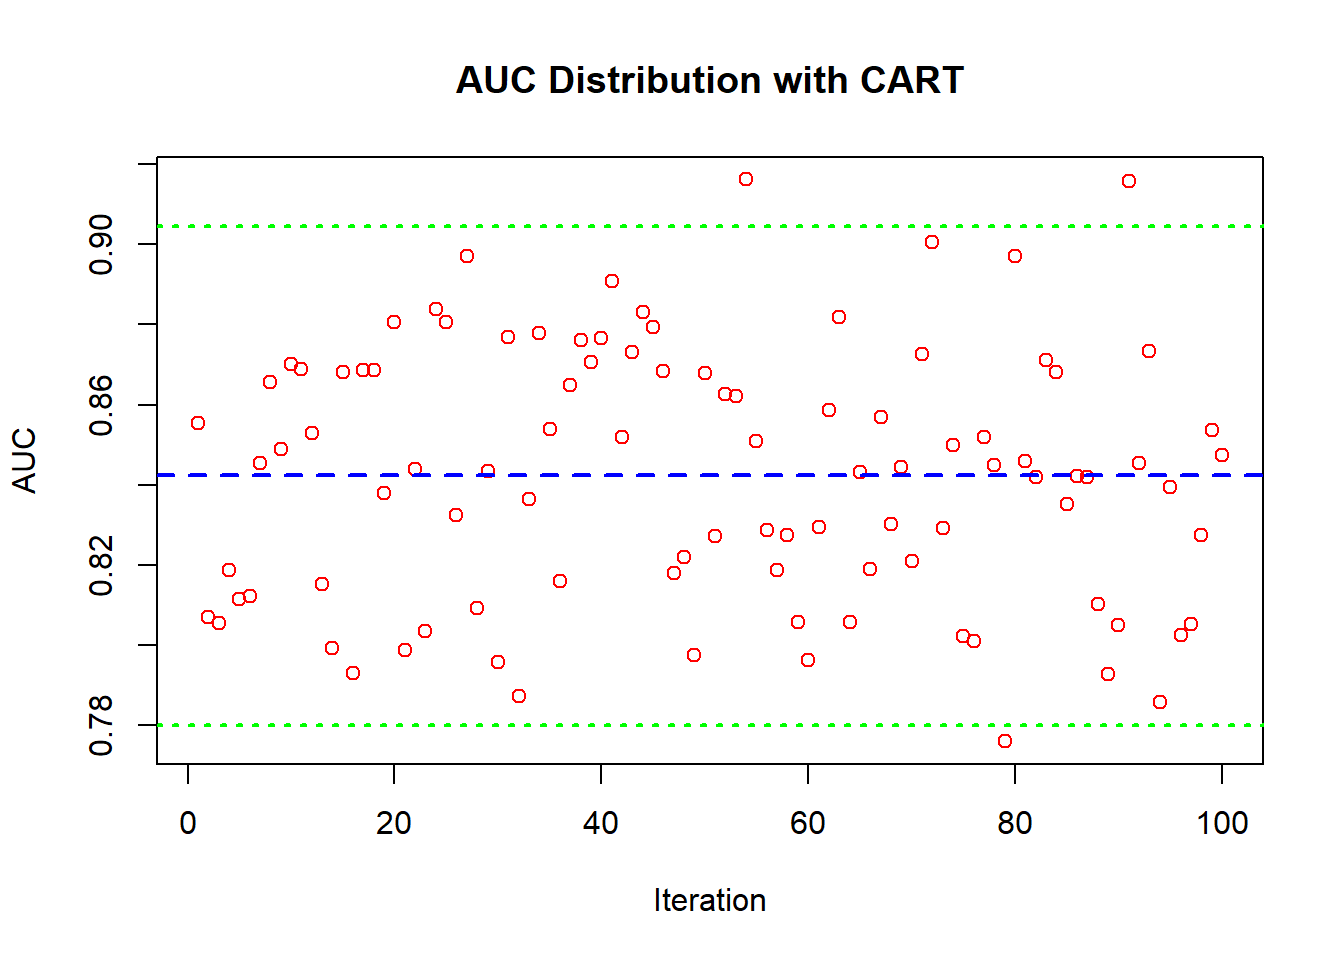
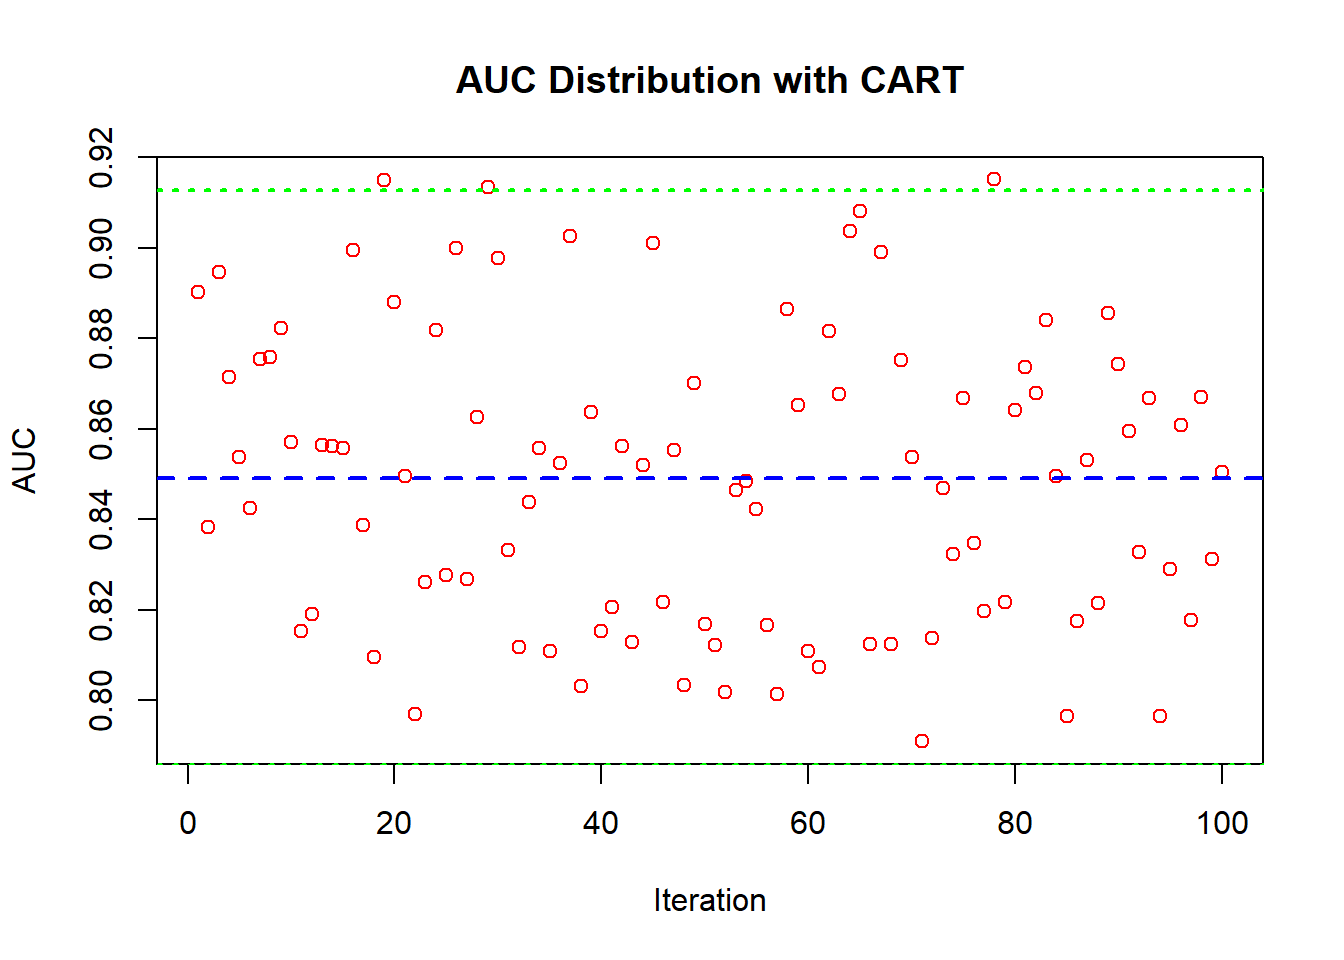
reg rmspe fix

diff --git a/docs/binary-application.html b/docs/binary-application.html
@@ -23,7 +23,7 @@
 <meta name="author" content="Simon P. Raymond" />
 
 
-<meta name="date" content="2024-03-03" />
+<meta name="date" content="2024-03-08" />
 
   <meta name="viewport" content="width=device-width, initial-scale=1" />
   <meta name="apple-mobile-web-app-capable" content="yes" />
@@ -736,11 +736,11 @@ code span.wa { color: #60a0b0; font-weight: bold; font-style: italic; } /* Warni
 ## 6  0.03         4                1         1                1      1     0     1
 ##   nrounds AUC_Mean
 ##     &lt;dbl&gt;    &lt;dbl&gt;
-## 1     350    0.928
-## 2     350    0.927
+## 1     350    0.926
+## 2     350    0.928
 ## 3     400    0.928
-## 4     400    0.927
-## 5     450    0.927
+## 4     400    0.924
+## 5     450    0.925
 ## 6     350    0.924</code></pre>
 <p>We will take the top 10% and do a more thorough search</p>
 <div class="sourceCode" id="cb55"><pre class="sourceCode r"><code class="sourceCode r"><span id="cb55-1"><a href="binary-application.html#cb55-1" tabindex="-1"></a><span class="co"># Sort vr by AUC_Mean and select the top 25%</span></span>
@@ -755,15 +755,15 @@ code span.wa { color: #60a0b0; font-weight: bold; font-style: italic; } /* Warni
 <pre><code>## # A tibble: 4 × 11
 ##     eta max_depth min_child_weight subsample colsample_bytree lambda alpha gamma
 ##   &lt;dbl&gt;     &lt;dbl&gt;            &lt;dbl&gt;     &lt;dbl&gt;            &lt;dbl&gt;  &lt;dbl&gt; &lt;dbl&gt; &lt;dbl&gt;
-## 1  0.05         6                1         1                1      1     1     0
-## 2  0.05         4                1         1                1      1     0     1
-## 3  0.05         4                1         1                1      1     1     1
-## 4  0.03         6                1         1                1      1     1     0
+## 1  0.05         6                1         1                1      2     1     0
+## 2  0.03         6                1         1                1      3     0     0
+## 3  0.05         4                1         1                1      2     0     0
+## 4  0.05         6                1         1                1      2     1     0
 ##   nrounds AUC_Mean mean_auc
 ##     &lt;dbl&gt;    &lt;dbl&gt;    &lt;dbl&gt;
-## 1     350    0.929    0.928
-## 2     400    0.929    0.928
-## 3     450    0.929    0.928
+## 1     350    0.929    0.927
+## 2     450    0.929    0.928
+## 3     450    0.929    0.927
 ## 4     450    0.929    0.928</code></pre>
 <p>Final AUC pres</p>
 <div class="sourceCode" id="cb58"><pre class="sourceCode r"><code class="sourceCode r"><span id="cb58-1"><a href="binary-application.html#cb58-1" tabindex="-1"></a>best_hp <span class="ot">&lt;-</span> ts_res <span class="sc">%&gt;%</span></span>
@@ -774,7 +774,7 @@ code span.wa { color: #60a0b0; font-weight: bold; font-style: italic; } /* Warni
 <pre><code>## # A tibble: 1 × 11
 ##     eta max_depth min_child_weight subsample colsample_bytree lambda alpha gamma
 ##   &lt;dbl&gt;     &lt;dbl&gt;            &lt;dbl&gt;     &lt;dbl&gt;            &lt;dbl&gt;  &lt;dbl&gt; &lt;dbl&gt; &lt;dbl&gt;
-## 1  0.03         6                1         1                1      1     1     0
+## 1  0.03         6                1         1                1      3     0     0
 ##   nrounds AUC_Mean mean_auc
 ##     &lt;dbl&gt;    &lt;dbl&gt;    &lt;dbl&gt;
 ## 1     450    0.929    0.928</code></pre>
@@ -783,9 +783,9 @@ code span.wa { color: #60a0b0; font-weight: bold; font-style: italic; } /* Warni
 <span id="cb60-3"><a href="binary-application.html#cb60-3" tabindex="-1"></a></span>
 <span id="cb60-4"><a href="binary-application.html#cb60-4" tabindex="-1"></a>mauc <span class="ot">&lt;-</span> <span class="fu">mean</span>(auc)</span>
 <span id="cb60-5"><a href="binary-application.html#cb60-5" tabindex="-1"></a>mauc</span></code></pre></div>
-<pre><code>## [1] 0.9278773</code></pre>
+<pre><code>## [1] 0.9278231</code></pre>
 <div class="sourceCode" id="cb62"><pre class="sourceCode r"><code class="sourceCode r"><span id="cb62-1"><a href="binary-application.html#cb62-1" tabindex="-1"></a><span class="fu">sd</span>(auc)</span></code></pre></div>
-<pre><code>## [1] 0.002035144</code></pre>
+<pre><code>## [1] 0.002040468</code></pre>
 <div class="sourceCode" id="cb64"><pre class="sourceCode r"><code class="sourceCode r"><span id="cb64-1"><a href="binary-application.html#cb64-1" tabindex="-1"></a><span class="fu">plot</span>(auc, <span class="at">col=</span><span class="st">&quot;red&quot;</span>)</span>
 <span id="cb64-2"><a href="binary-application.html#cb64-2" tabindex="-1"></a><span class="fu">abline</span>(<span class="at">a =</span> <span class="fu">mean</span>(auc), <span class="at">b =</span> <span class="dv">0</span>, <span class="at">col =</span> <span class="st">&quot;blue&quot;</span>, <span class="at">lwd =</span> <span class="dv">2</span>)</span>
 <span id="cb64-3"><a href="binary-application.html#cb64-3" tabindex="-1"></a><span class="fu">abline</span>(<span class="at">a =</span> <span class="fu">mean</span>(auc)<span class="sc">-</span><span class="fl">1.96</span><span class="sc">*</span><span class="fu">sd</span>(auc), <span class="at">b =</span> <span class="dv">0</span>, <span class="at">col =</span> <span class="st">&quot;green&quot;</span>, <span class="at">lwd =</span> <span class="dv">3</span>)</span>
@@ -942,7 +942,7 @@ code span.wa { color: #60a0b0; font-weight: bold; font-style: italic; } /* Warni
 <span id="cb68-53"><a href="binary-application.html#cb68-53" tabindex="-1"></a><span class="co"># Calculate and print the average of the best thresholds</span></span>
 <span id="cb68-54"><a href="binary-application.html#cb68-54" tabindex="-1"></a>avg_best_threshold <span class="ot">&lt;-</span> <span class="fu">mean</span>(best_thresholds)</span>
 <span id="cb68-55"><a href="binary-application.html#cb68-55" tabindex="-1"></a><span class="fu">cat</span>(<span class="st">&quot;Average Best Threshold:&quot;</span>, avg_best_threshold, <span class="st">&quot;</span><span class="sc">\n</span><span class="st">&quot;</span>)</span></code></pre></div>
-<pre><code>## Average Best Threshold: 0.2309387</code></pre>
+<pre><code>## Average Best Threshold: 0.2328161</code></pre>
 <div class="sourceCode" id="cb70"><pre class="sourceCode r"><code class="sourceCode r"><span id="cb70-1"><a href="binary-application.html#cb70-1" tabindex="-1"></a><span class="co"># Plot the distribution of max J statistics for each iteration</span></span>
 <span id="cb70-2"><a href="binary-application.html#cb70-2" tabindex="-1"></a><span class="fu">hist</span>(j_stats, <span class="at">col =</span> <span class="st">&quot;blue&quot;</span>, <span class="at">xlab =</span> <span class="st">&quot;Max J Statistic&quot;</span>, <span class="at">ylab =</span> <span class="st">&quot;Frequency&quot;</span>,</span>
 <span id="cb70-3"><a href="binary-application.html#cb70-3" tabindex="-1"></a>     <span class="at">main =</span> <span class="st">&quot;Distribution of Max J Statistics Across Bootstrap Iterations&quot;</span>)</span>
@@ -991,8 +991,8 @@ code span.wa { color: #60a0b0; font-weight: bold; font-style: italic; } /* Warni
 <span id="cb71-37"><a href="binary-application.html#cb71-37" tabindex="-1"></a>avg_conf_matrix <span class="ot">&lt;-</span> conf_mat_totals <span class="sc">/</span> <span class="dv">100</span></span>
 <span id="cb71-38"><a href="binary-application.html#cb71-38" tabindex="-1"></a><span class="fu">print</span>(avg_conf_matrix)</span></code></pre></div>
 <pre><code>##             Actual_1 Actual_0
-## Predicted_1  2512.99  1687.29
-## Predicted_0   366.36  7413.95</code></pre>
+## Predicted_1  2512.31  1681.81
+## Predicted_0   367.04  7419.43</code></pre>
 <p>This doesn’t have a CI but its a average</p>
 <div class="sourceCode" id="cb73"><pre class="sourceCode r"><code class="sourceCode r"><span id="cb73-1"><a href="binary-application.html#cb73-1" tabindex="-1"></a><span class="co"># Determine common FPR thresholds for interpolation (simplified approach)</span></span>
 <span id="cb73-2"><a href="binary-application.html#cb73-2" tabindex="-1"></a>common_fpr_thresholds <span class="ot">&lt;-</span> <span class="fu">seq</span>(<span class="dv">0</span>, <span class="dv">1</span>, <span class="at">length.out =</span> <span class="dv">100</span>)</span>

diff --git a/docs/speeds.html b/docs/speeds.html
@@ -23,7 +23,7 @@
 <meta name="author" content="Simon P. Raymond" />
 
 
-<meta name="date" content="2024-03-03" />
+<meta name="date" content="2024-03-08" />
 
   <meta name="viewport" content="width=device-width, initial-scale=1" />
   <meta name="apple-mobile-web-app-capable" content="yes" />
@@ -607,48 +607,48 @@ code span.wa { color: #60a0b0; font-weight: bold; font-style: italic; } /* Warni
 <p>10ks</p>
 <p>matrix</p>
 <div class="sourceCode" id="cb139"><pre class="sourceCode r"><code class="sourceCode r"><span id="cb139-1"><a href="speeds.html#cb139-1" tabindex="-1"></a>t1sf </span></code></pre></div>
-<pre><code>## [1] 29.26344</code></pre>
+<pre><code>## [1] 29.62247</code></pre>
 <div class="sourceCode" id="cb141"><pre class="sourceCode r"><code class="sourceCode r"><span id="cb141-1"><a href="speeds.html#cb141-1" tabindex="-1"></a>t2sf</span></code></pre></div>
-<pre><code>## [1] 12.43812</code></pre>
+<pre><code>## [1] 12.46344</code></pre>
 <div class="sourceCode" id="cb143"><pre class="sourceCode r"><code class="sourceCode r"><span id="cb143-1"><a href="speeds.html#cb143-1" tabindex="-1"></a>tpsf</span></code></pre></div>
-<pre><code>## [1] 7.088834</code></pre>
+<pre><code>## [1] 6.799765</code></pre>
 <p>sparse</p>
 <div class="sourceCode" id="cb145"><pre class="sourceCode r"><code class="sourceCode r"><span id="cb145-1"><a href="speeds.html#cb145-1" tabindex="-1"></a>t1ssf </span></code></pre></div>
-<pre><code>## [1] 21.97449</code></pre>
+<pre><code>## [1] 21.49347</code></pre>
 <div class="sourceCode" id="cb147"><pre class="sourceCode r"><code class="sourceCode r"><span id="cb147-1"><a href="speeds.html#cb147-1" tabindex="-1"></a>t2ssf</span></code></pre></div>
-<pre><code>## [1] 11.96164</code></pre>
+<pre><code>## [1] 11.82725</code></pre>
 <div class="sourceCode" id="cb149"><pre class="sourceCode r"><code class="sourceCode r"><span id="cb149-1"><a href="speeds.html#cb149-1" tabindex="-1"></a>tpssf</span></code></pre></div>
-<pre><code>## [1] 5.678013</code></pre>
+<pre><code>## [1] 5.638014</code></pre>
 <p>100ks</p>
 <p>matrix</p>
 <div class="sourceCode" id="cb151"><pre class="sourceCode r"><code class="sourceCode r"><span id="cb151-1"><a href="speeds.html#cb151-1" tabindex="-1"></a>t1100 </span></code></pre></div>
-<pre><code>## [1] 290.168</code></pre>
+<pre><code>## [1] 290.1228</code></pre>
 <div class="sourceCode" id="cb153"><pre class="sourceCode r"><code class="sourceCode r"><span id="cb153-1"><a href="speeds.html#cb153-1" tabindex="-1"></a>t2100 </span></code></pre></div>
-<pre><code>## [1] 50.99562</code></pre>
+<pre><code>## [1] 50.77585</code></pre>
 <div class="sourceCode" id="cb155"><pre class="sourceCode r"><code class="sourceCode r"><span id="cb155-1"><a href="speeds.html#cb155-1" tabindex="-1"></a>tp100</span></code></pre></div>
-<pre><code>## [1] 44.22272</code></pre>
+<pre><code>## [1] 43.77781</code></pre>
 <p>sparse</p>
 <div class="sourceCode" id="cb157"><pre class="sourceCode r"><code class="sourceCode r"><span id="cb157-1"><a href="speeds.html#cb157-1" tabindex="-1"></a>t1s100 </span></code></pre></div>
-<pre><code>## [1] 206.0387</code></pre>
+<pre><code>## [1] 208.2067</code></pre>
 <div class="sourceCode" id="cb159"><pre class="sourceCode r"><code class="sourceCode r"><span id="cb159-1"><a href="speeds.html#cb159-1" tabindex="-1"></a>t2s100 </span></code></pre></div>
-<pre><code>## [1] 45.44652</code></pre>
+<pre><code>## [1] 45.53019</code></pre>
 <div class="sourceCode" id="cb161"><pre class="sourceCode r"><code class="sourceCode r"><span id="cb161-1"><a href="speeds.html#cb161-1" tabindex="-1"></a>tps100</span></code></pre></div>
-<pre><code>## [1] 32.47467</code></pre>
+<pre><code>## [1] 32.36612</code></pre>
 <p>500ks</p>
 <p>matrix</p>
 <div class="sourceCode" id="cb163"><pre class="sourceCode r"><code class="sourceCode r"><span id="cb163-1"><a href="speeds.html#cb163-1" tabindex="-1"></a>t150 </span></code></pre></div>
-<pre><code>## [1] 1564.963</code></pre>
+<pre><code>## [1] 1573.649</code></pre>
 <div class="sourceCode" id="cb165"><pre class="sourceCode r"><code class="sourceCode r"><span id="cb165-1"><a href="speeds.html#cb165-1" tabindex="-1"></a>t250 </span></code></pre></div>
-<pre><code>## [1] 226.6483</code></pre>
+<pre><code>## [1] 227.4724</code></pre>
 <div class="sourceCode" id="cb167"><pre class="sourceCode r"><code class="sourceCode r"><span id="cb167-1"><a href="speeds.html#cb167-1" tabindex="-1"></a>tp50</span></code></pre></div>
-<pre><code>## [1] 473.1323</code></pre>
+<pre><code>## [1] 460.5864</code></pre>
 <p>sparse</p>
 <div class="sourceCode" id="cb169"><pre class="sourceCode r"><code class="sourceCode r"><span id="cb169-1"><a href="speeds.html#cb169-1" tabindex="-1"></a>t1s50 </span></code></pre></div>
-<pre><code>## [1] 1141.432</code></pre>
+<pre><code>## [1] 1149.098</code></pre>
 <div class="sourceCode" id="cb171"><pre class="sourceCode r"><code class="sourceCode r"><span id="cb171-1"><a href="speeds.html#cb171-1" tabindex="-1"></a>t2s50 </span></code></pre></div>
-<pre><code>## [1] 203.0088</code></pre>
+<pre><code>## [1] 202.9333</code></pre>
 <div class="sourceCode" id="cb173"><pre class="sourceCode r"><code class="sourceCode r"><span id="cb173-1"><a href="speeds.html#cb173-1" tabindex="-1"></a>tps50 </span></code></pre></div>
-<pre><code>## [1] 362.6251</code></pre>
+<pre><code>## [1] 361.2397</code></pre>
 </div>
 <div id="analysis" class="section level2 hasAnchor" number="6.6">
 <h2><span class="header-section-number">6.6</span> Analysis<a href="speeds.html#analysis" class="anchor-section" aria-label="Anchor link to header"></a></h2>

diff --git a/docs/regressional-application.html b/docs/regressional-application.html
@@ -23,7 +23,7 @@
 <meta name="author" content="Simon P. Raymond" />
 
 
-<meta name="date" content="2024-03-03" />
+<meta name="date" content="2024-03-08" />
 
   <meta name="viewport" content="width=device-width, initial-scale=1" />
   <meta name="apple-mobile-web-app-capable" content="yes" />
@@ -362,12 +362,12 @@ medv: Median value of owner-occupied homes in $1000s.</p>
 <span id="cb82-16"><a href="regressional-application.html#cb82-16" tabindex="-1"></a>  yhat <span class="ot">&lt;-</span> <span class="fu">predict</span>(mdl, tst)</span>
 <span id="cb82-17"><a href="regressional-application.html#cb82-17" tabindex="-1"></a>  </span>
 <span id="cb82-18"><a href="regressional-application.html#cb82-18" tabindex="-1"></a>  <span class="co"># Calculate RMSPE</span></span>
-<span id="cb82-19"><a href="regressional-application.html#cb82-19" tabindex="-1"></a>  rmspe[i] <span class="ot">&lt;-</span> <span class="fu">sqrt</span>(<span class="fu">mean</span>(((tst<span class="sc">$</span>y <span class="sc">-</span> yhat) <span class="sc">/</span> tst<span class="sc">$</span>y)<span class="sc">^</span><span class="dv">2</span>, <span class="at">na.rm =</span> <span class="cn">TRUE</span>))</span>
+<span id="cb82-19"><a href="regressional-application.html#cb82-19" tabindex="-1"></a>  rmspe[i] <span class="ot">&lt;-</span> <span class="fu">sqrt</span>(<span class="fu">mean</span>((tst<span class="sc">$</span>y <span class="sc">-</span> yhat)<span class="sc">^</span><span class="dv">2</span>))</span>
 <span id="cb82-20"><a href="regressional-application.html#cb82-20" tabindex="-1"></a>}</span>
 <span id="cb82-21"><a href="regressional-application.html#cb82-21" tabindex="-1"></a></span>
 <span id="cb82-22"><a href="regressional-application.html#cb82-22" tabindex="-1"></a>mean_rmspe <span class="ot">&lt;-</span> <span class="fu">mean</span>(rmspe, <span class="at">na.rm =</span> <span class="cn">TRUE</span>)</span>
 <span id="cb82-23"><a href="regressional-application.html#cb82-23" tabindex="-1"></a>mean_rmspe</span></code></pre></div>
-<pre><code>## [1] 0.1739991</code></pre>
+<pre><code>## [1] 3.473048</code></pre>
 </div>
 <div id="lm-1" class="section level3 hasAnchor" number="4.2.2">
 <h3><span class="header-section-number">4.2.2</span> LM<a href="regressional-application.html#lm-1" class="anchor-section" aria-label="Anchor link to header"></a></h3>
@@ -388,12 +388,12 @@ medv: Median value of owner-occupied homes in $1000s.</p>
 <span id="cb84-15"><a href="regressional-application.html#cb84-15" tabindex="-1"></a>  </span>
 <span id="cb84-16"><a href="regressional-application.html#cb84-16" tabindex="-1"></a>  </span>
 <span id="cb84-17"><a href="regressional-application.html#cb84-17" tabindex="-1"></a>  <span class="co"># Calculate RMSPE</span></span>
-<span id="cb84-18"><a href="regressional-application.html#cb84-18" tabindex="-1"></a>  rmspe[i] <span class="ot">&lt;-</span> <span class="fu">sqrt</span>(<span class="fu">mean</span>(((tst<span class="sc">$</span>y <span class="sc">-</span> yhat) <span class="sc">/</span> tst<span class="sc">$</span>y)<span class="sc">^</span><span class="dv">2</span>, <span class="at">na.rm =</span> <span class="cn">TRUE</span>))</span>
+<span id="cb84-18"><a href="regressional-application.html#cb84-18" tabindex="-1"></a>  rmspe[i] <span class="ot">&lt;-</span> <span class="fu">sqrt</span>(<span class="fu">mean</span>((tst<span class="sc">$</span>y <span class="sc">-</span> yhat)<span class="sc">^</span><span class="dv">2</span>))</span>
 <span id="cb84-19"><a href="regressional-application.html#cb84-19" tabindex="-1"></a>}</span>
 <span id="cb84-20"><a href="regressional-application.html#cb84-20" tabindex="-1"></a></span>
 <span id="cb84-21"><a href="regressional-application.html#cb84-21" tabindex="-1"></a>mean_rmspe <span class="ot">&lt;-</span> <span class="fu">mean</span>(rmspe, <span class="at">na.rm =</span> <span class="cn">TRUE</span>)</span>
 <span id="cb84-22"><a href="regressional-application.html#cb84-22" tabindex="-1"></a>mean_rmspe</span></code></pre></div>
-<pre><code>## [1] 0.260165</code></pre>
+<pre><code>## [1] 4.870797</code></pre>
 <p>We will add others later but it is the same basic idea as classification algorithms only we use rmspe instead of auc.</p>
 
 </div>

diff --git a/docs/index.html b/docs/index.html
@@ -23,7 +23,7 @@
 <meta name="author" content="Simon P. Raymond" />
 
 
-<meta name="date" content="2024-03-03" />
+<meta name="date" content="2024-03-08" />
 
   <meta name="viewport" content="width=device-width, initial-scale=1" />
   <meta name="apple-mobile-web-app-capable" content="yes" />
@@ -269,7 +269,7 @@ code span.wa { color: #60a0b0; font-weight: bold; font-style: italic; } /* Warni
 <div id="header">
 <h1 class="title">Machine Learning Applications</h1>
 <p class="author"><em>Simon P. Raymond</em></p>
-<p class="date"><em>2024-03-03</em></p>
+<p class="date"><em>2024-03-08</em></p>
 </div>
 <div id="about-myself" class="section level1 hasAnchor" number="1">
 <h1><span class="header-section-number">Chapter 1</span> About Myself<a href="index.html#about-myself" class="anchor-section" aria-label="Anchor link to header"></a></h1>

diff --git a/docs/algorithms.html b/docs/algorithms.html
@@ -23,7 +23,7 @@
 <meta name="author" content="Simon P. Raymond" />
 
 
-<meta name="date" content="2024-03-03" />
+<meta name="date" content="2024-03-08" />
 
   <meta name="viewport" content="width=device-width, initial-scale=1" />
   <meta name="apple-mobile-web-app-capable" content="yes" />
@@ -446,7 +446,7 @@ code span.wa { color: #60a0b0; font-weight: bold; font-style: italic; } /* Warni
 ## 
 ## Training Results
 ## 
-## Accuracy: 0.858 Kappa: 0.715</code></pre>
+## Accuracy: 0.853 Kappa: 0.705</code></pre>
 </div>
 <div id="gbm-boost" class="section level3 hasAnchor" number="2.4.2">
 <h3><span class="header-section-number">2.4.2</span> GBM boost<a href="algorithms.html#gbm-boost" class="anchor-section" aria-label="Anchor link to header"></a></h3>

diff --git a/docs/404.html b/docs/404.html
@@ -23,7 +23,7 @@
 <meta name="author" content="Simon P. Raymond" />
 
 
-<meta name="date" content="2024-03-03" />
+<meta name="date" content="2024-03-08" />
 
   <meta name="viewport" content="width=device-width, initial-scale=1" />
   <meta name="apple-mobile-web-app-capable" content="yes" />

diff --git a/docs/imbalanced-application.html b/docs/imbalanced-application.html
@@ -23,7 +23,7 @@
 <meta name="author" content="Simon P. Raymond" />
 
 
-<meta name="date" content="2024-03-03" />
+<meta name="date" content="2024-03-08" />
 
   <meta name="viewport" content="width=device-width, initial-scale=1" />
   <meta name="apple-mobile-web-app-capable" content="yes" />

diff --git a/docs/multi-variable-classification.html b/docs/multi-variable-classification.html
@@ -23,7 +23,7 @@
 <meta name="author" content="Simon P. Raymond" />
 
 
-<meta name="date" content="2024-03-03" />
+<meta name="date" content="2024-03-08" />
 
   <meta name="viewport" content="width=device-width, initial-scale=1" />
   <meta name="apple-mobile-web-app-capable" content="yes" />
